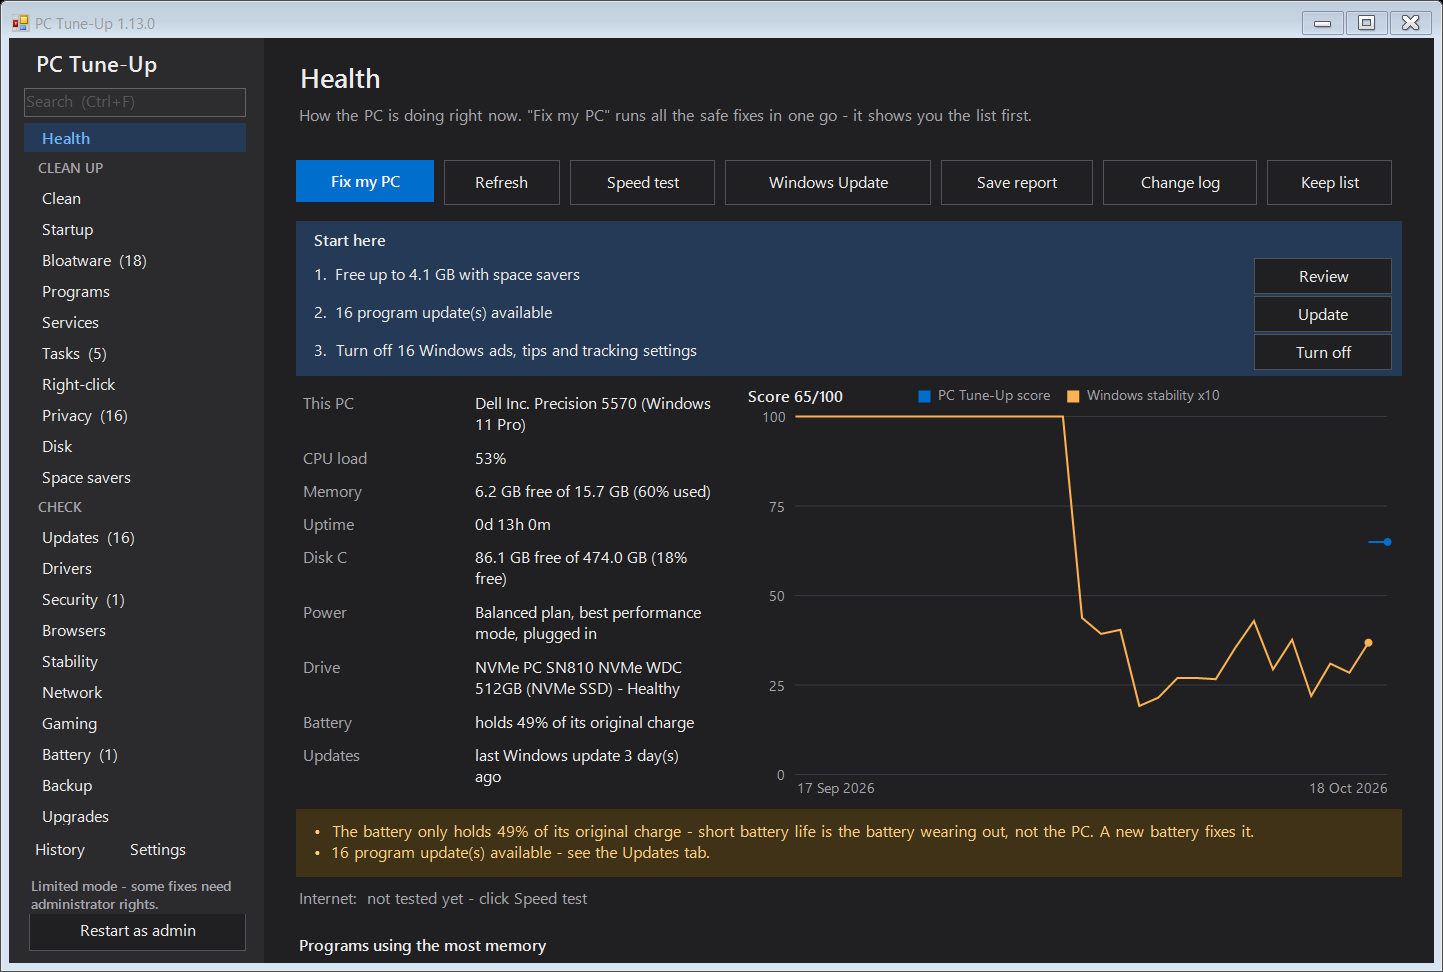
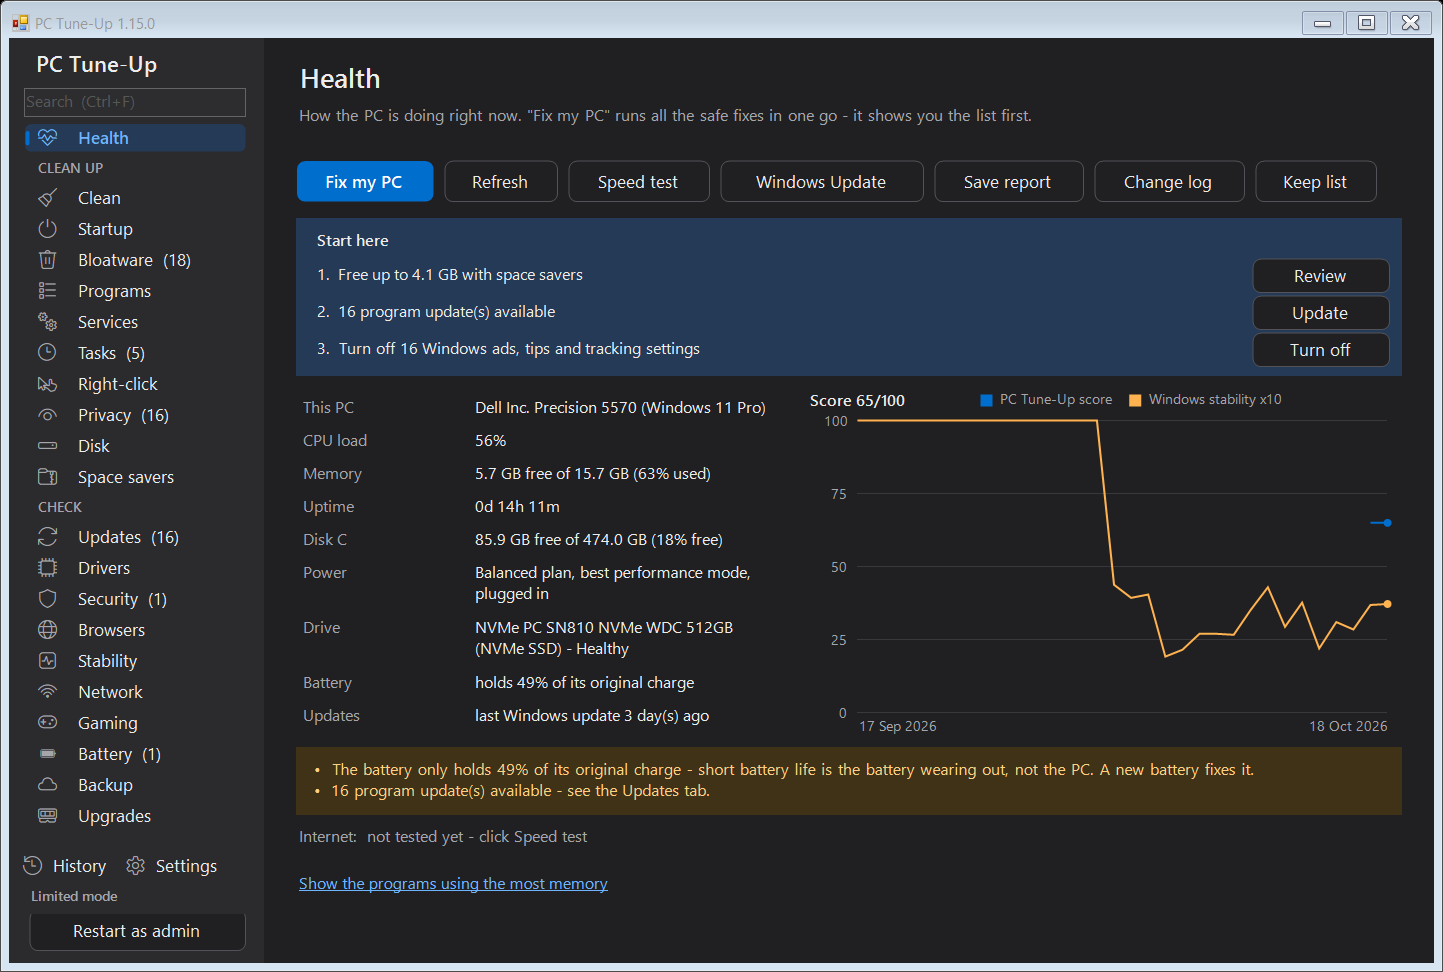
v1.15.0: polished look
- Owner-drawn rounded buttons (Draw-Button), sidebar icons from Segoe Fluent Icons/MDL2 with a selection bar (Draw-NavButton)
- Slim themed progress bar, row hover (Set-HotRow), status dots (Set-RowStatus)
- Health: wider readings, memory list behind a link; shorter Limited mode footer; measured History/Settings buttons
- Fixed an int/double Math.Min trap in the progress bar

diff --git a/CHANGELOG.md b/CHANGELOG.md
@@ -1,5 +1,11 @@
 # Changelog
 
+## 1.15.0
+
+- **A cleaner, more modern look**: an icon for every page in the sidebar and a blue bar next to the open page (like Windows 11 Settings); rounded, softer buttons; a slim progress bar in the app's colours; a light highlight under the mouse in every list, with a little more room per row.
+- **Status as a coloured dot**: lists show "● OK", "● Warning" or "● Problem" in the status column, so the rest of the row stays easy to read.
+- **Health page**: the readings get more room, so lines like the PC name and the free disk space no longer wrap; the memory list (which didn't fit) is behind "Show the programs using the most memory".
+- The sidebar's "Limited mode" note is one short line, and History and Settings fit side by side in every language.
 ## 1.14.2
 
 - Fixed: in 1.14.0 the left edge of every page was hidden under the sidebar (the page title, the first buttons and the start of each line). The page test now checks that pages always start next to the sidebar.
